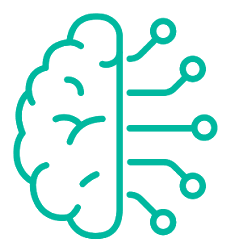
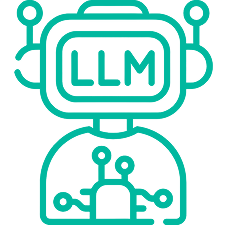
chore: 자잘한 UI 수정

diff --git a/frontend/src/pages/model-setup/ModelSetsPage.jsx b/frontend/src/pages/model-setup/ModelSetsPage.jsx
@@ -456,7 +456,7 @@ export default function ModelSetsPage() {
 
   const buildPayloadOrAlert = () => {
     if (!(name || '').trim()) {
-      window.alert('셋 이름을 입력해주세요.')
+      window.alert('LLM 조합 이름을 입력해주세요.')
       return null
     }
     if (!selectedLlms.length) {
@@ -501,7 +501,7 @@ export default function ModelSetsPage() {
   return (
     <section className="model-setup">
       <div className="ms-header-row">
-        <h2 className="ms-app-title">LLM 셋</h2>
+        <h2 className="ms-app-title">Multi-LLM 구성하기</h2>
         <button className="ms-back-btn" type="button" onClick={() => navigate('/model-setup')} aria-label="선택 화면으로">
           ←
         </button>
@@ -510,17 +510,17 @@ export default function ModelSetsPage() {
       <div className="ms-stack">
         <div className="ms-stack-section" ref={builderRef}>
           <h3 className="ms-split-title">
-            {editingProfileId ? `"${editingProfile?.name || ''}" 수정` : '새 셋 만들기'}
+            {editingProfileId ? `"${editingProfile?.name || ''}" 수정` : '새 조합 만들기'}
           </h3>
 
           <div className="ms-card">
             <div className="ms-set-field">
-              <p className="ms-label">셋 이름</p>
+              <p className="ms-label">LLM 조합 이름</p>
               <input
                 className="ms-name-input"
                 type="text"
                 value={name}
-                placeholder="예: 기본 검증 셋"
+                placeholder="예: 오픈소스 개발자대회 시연용"
                 onChange={event => setName(event.target.value)}
               />
             </div>

diff --git a/frontend/src/pages/MainPage.jsx b/frontend/src/pages/MainPage.jsx
@@ -19,13 +19,9 @@ export default function MainPage() {
           </g>
         </svg>
         <div className="hero-inner">
-          <h1>
-            강의 영상을 <em>멀티모달</em>로 분석하고,
-            <br />
-            <em>여러 LLM</em>이 강의 속 지식 오류를 탐지한다.
-          </h1>
+          <h1><em>Mul</em>Detect</h1>
           <p className="lede">
-            사용자가 설정한 Multi-LLM으로 강의 영상 속 지식 오류를 찾고 피드백을 제공합니다.
+            강의 영상을 멀티모달로 분석하고, 여러 LLM이 강의 속 지식 오류를 탐지한다.
           </p>
         </div>
       </div>
@@ -45,7 +41,7 @@ export default function MainPage() {
             </svg>
           </span>
           <span className="action-title">Multi-LLM 사용자 설정</span>
-          <span className="action-desc">LLM을 등록하고, 검증에 쓸 Multi-LLM 셋을 구성합니다.</span>
+          <span className="action-desc">LLM을 등록하고, 검증에 쓸 Multi-LLM 조합을 구성합니다.</span>
           <span className="action-go">
             바로가기
             <svg viewBox="0 0 24 24"><path d="M5 12h14M13 6l6 6-6 6" /></svg>

diff --git a/frontend/src/components/model-setup/ActiveLlmSetBanner.jsx b/frontend/src/components/model-setup/ActiveLlmSetBanner.jsx
@@ -41,7 +41,7 @@ export default function ActiveLlmSetBanner() {
         className="main-llm-set-banner"
         onClick={() => setOpen(true)}
         aria-haspopup="dialog"
-        aria-label={`현재 적용 LLM 셋: ${label}`}
+        aria-label={`현재 적용 LLM 조합: ${label}`}
       >
         <span className="main-llm-set-banner-text">
           <strong>{label}</strong>
@@ -74,7 +74,7 @@ export default function ActiveLlmSetBanner() {
             <div className="ms-preset-detail-head">
               <div>
                 <div className="ms-preset-title-row">
-                  <h3 id="main-llm-set-title">{activeProfile?.name || '적용된 LLM 셋 없음'}</h3>
+                  <h3 id="main-llm-set-title">{activeProfile?.name || '적용된 LLM 조합 없음'}</h3>
                   {activeProfile && <span className="ms-preset-badge">적용 중</span>}
                 </div>
                 <p>

diff --git a/frontend/src/styles.css b/frontend/src/styles.css
@@ -1119,8 +1119,8 @@ main { margin-top: 12px; display: flex; flex-direction: column; gap: 20px; }
 .ms-entry-page--verify .ms-hero-entry-band { padding: 90px 0 66px; }
 .ms-entry-page--verify .ms-hero-entry-band img { height: 140px; }
 
-.ms-entry-page--model-setup .ms-hero-entry-band { padding: 74px 0 52px; }
-.ms-entry-page--model-setup .ms-hero-entry-band img { height: 170px; }
+.ms-entry-page--model-setup .ms-hero-entry-band { padding: 84px 0 62px; }
+.ms-entry-page--model-setup .ms-hero-entry-band img { height: 150px; }
 .ms-entry-page--model-setup .ms-hero-entry-band--sets { padding: 60px 0 36px; }
 .ms-entry-page--model-setup .ms-hero-entry-band--sets img { height: 200px; }
 .ms-hero-entry-body { width: 100%; padding: 0 24px 44px; }

diff --git a/frontend/src/pages/model-setup/ModelRegistryPage.jsx b/frontend/src/pages/model-setup/ModelRegistryPage.jsx
@@ -221,7 +221,7 @@ export default function ModelRegistryPage() {
           <h3 className="ms-split-title">새 모델 등록</h3>
           <div className="ms-card">
             <p className="ms-hint" style={{ marginBottom: 12 }}>
-              API 키(또는 로컬 모델명)를 등록하면 여기서 등록한 모델만 LLM 셋 만들기에서 선택할 수 있어요.
+              API 키(또는 로컬 모델명)를 등록하면 여기서 등록한 모델만 LLM 조합 만들기에서 선택할 수 있어요.
             </p>
             <div className="ms-add-row ms-add-row--wrap">
               <select value={providerSelect} onChange={event => {

diff --git a/frontend/src/components/layout/SiteHeader.jsx b/frontend/src/components/layout/SiteHeader.jsx
@@ -22,7 +22,7 @@ export default function SiteHeader() {
               <circle cx="12" cy="12" r="9" />
             </svg>
           </span>
-          <span className="site-header-brand-word">VeriLec</span>
+          <span className="site-header-brand-word">MulDetect</span>
         </button>
         <div className="site-header-links">
           <button type="button" onClick={() => navigate('/model-setup/sets')}>Multi-LLM 설정</button>

diff --git a/frontend/src/pages/model-setup/ModelSetupEntryPage.jsx b/frontend/src/pages/model-setup/ModelSetupEntryPage.jsx
@@ -13,8 +13,8 @@ const ENTRIES = [
   {
     key: 'sets',
     path: '/model-setup/sets',
-    title: 'Multi LLM 셋 만들기',
-    desc: '만들어 둔 셋을 확인·적용하고, 새 셋을 구성합니다.',
+    title: 'Multi-LLM 구성하기',
+    desc: '만들어 둔 조합을 확인·적용하고, 새로운 조합을 구성합니다.',
     icon: llmSetsIcon,
   },
 ]
